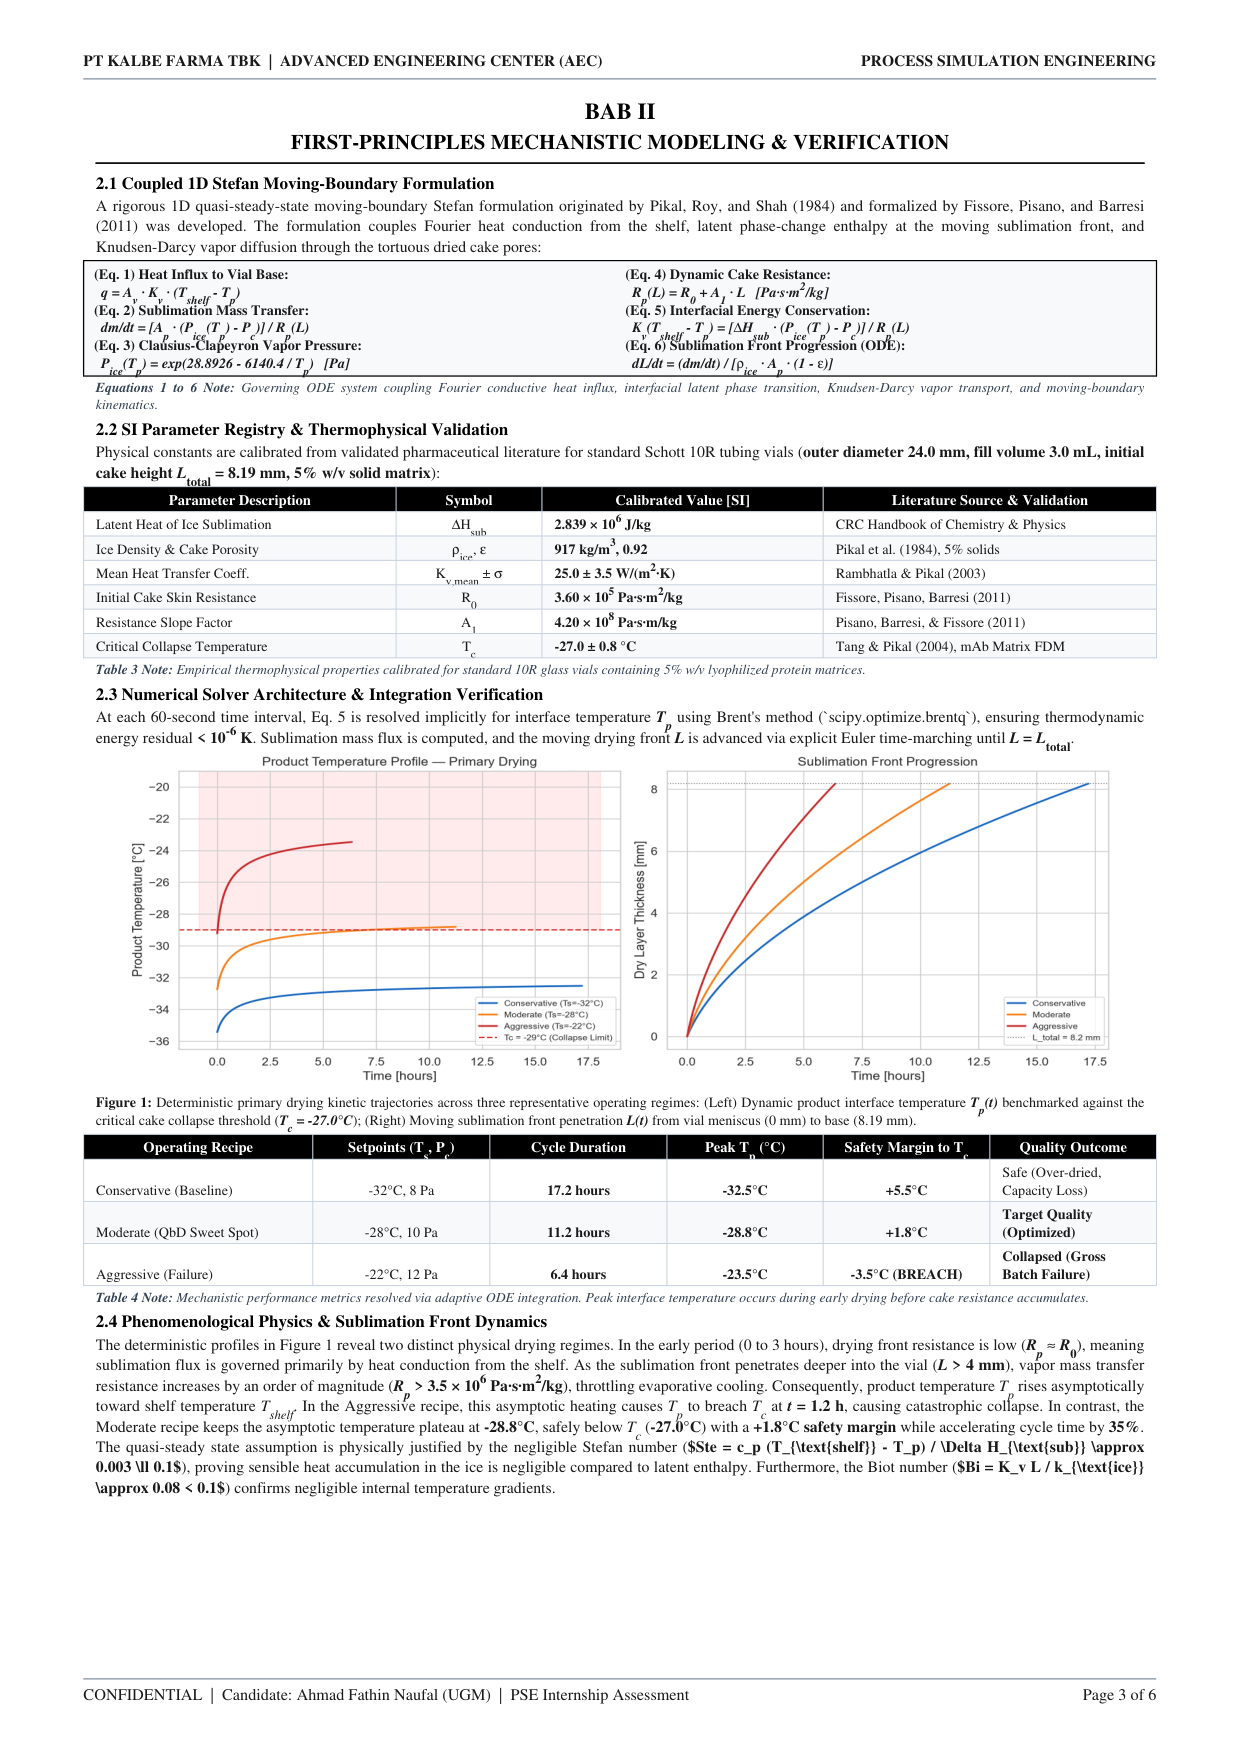
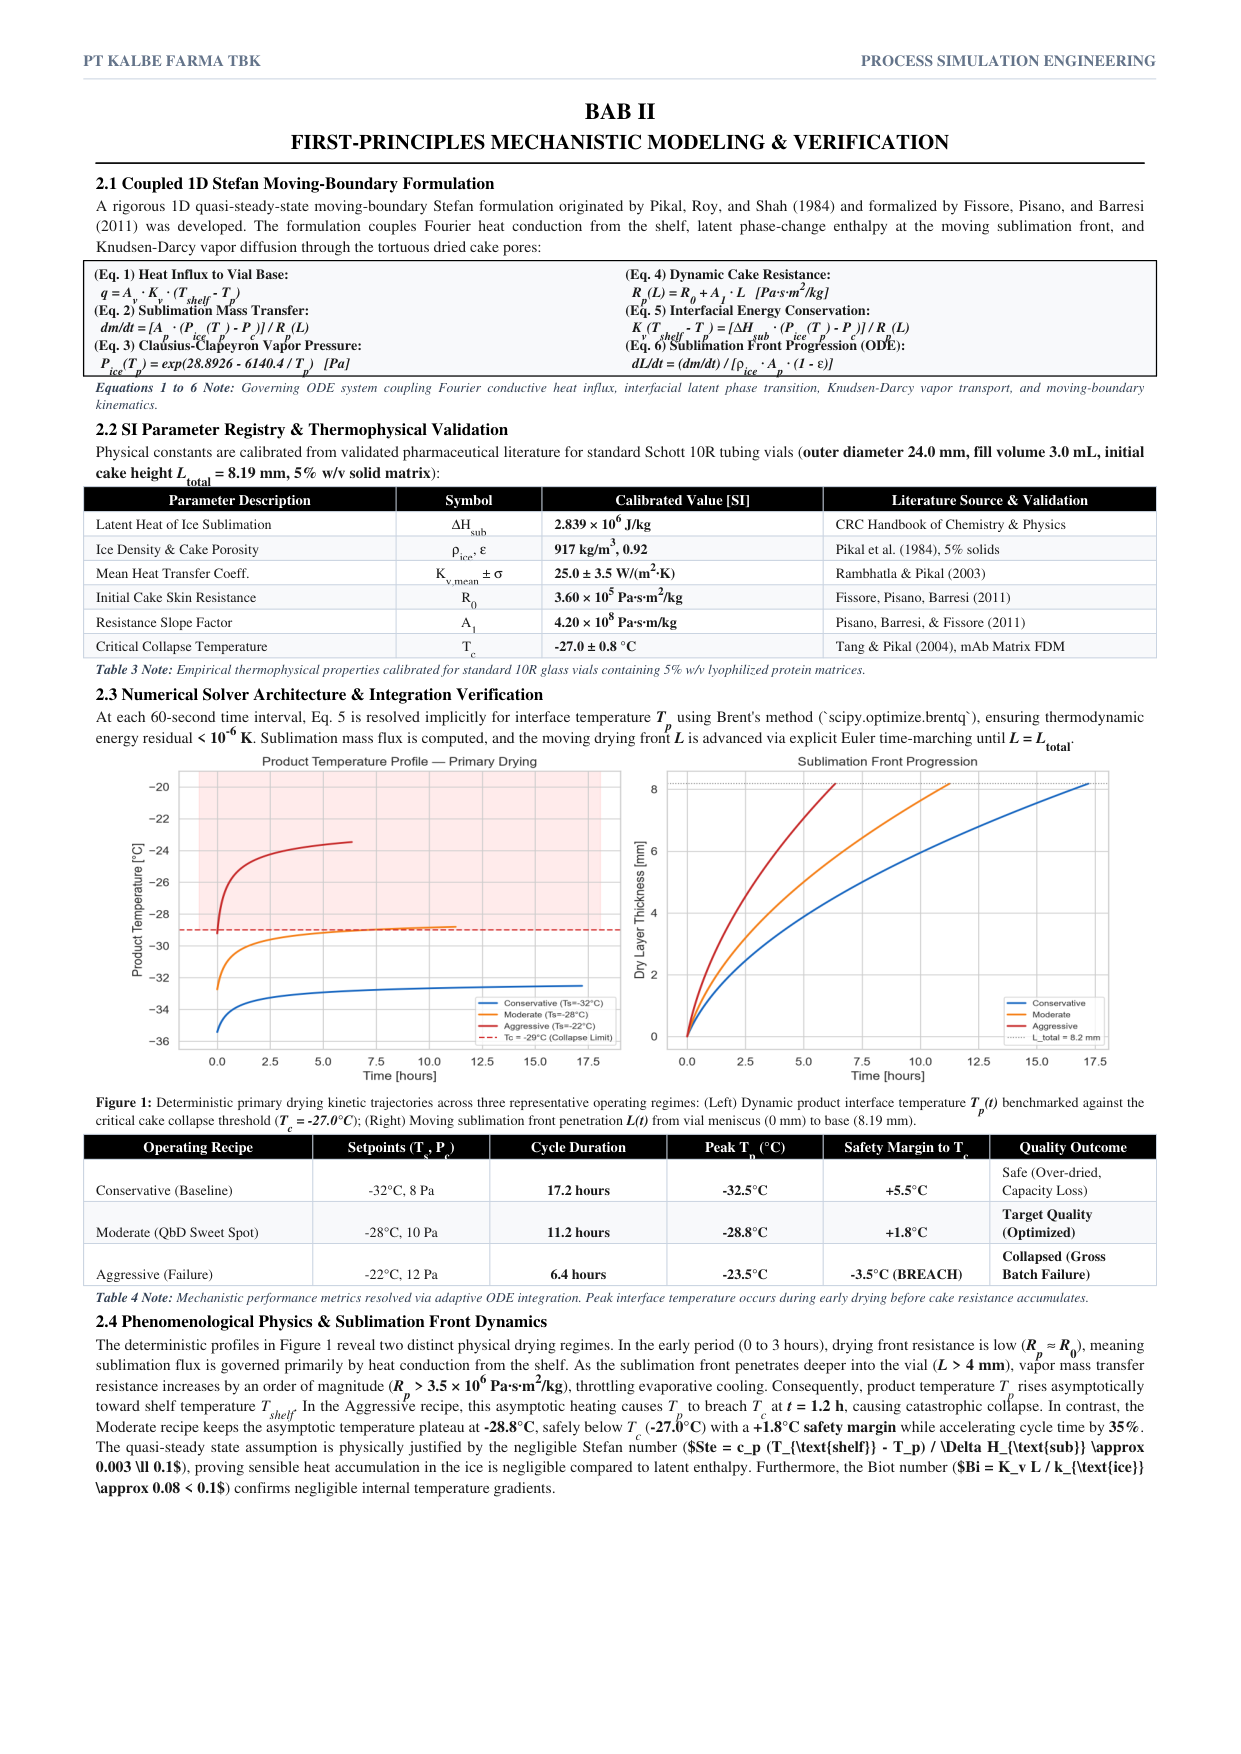
style(report): align cover and header to user sample images, remove footer, remove UGM abbreviation, and clean references section

diff --git a/generate_report_docx.py b/generate_report_docx.py
@@ -6,21 +6,23 @@ Assessment Track: Technical Case Study: Process Simulation & Digital Twin
 Target Facility: PT Kalbio Global Medika (KGM Cikarang)
 Assessor: Miftahul Irawan (AEC Lead, Corporate Digital Transformation, PT Kalbe Farma Tbk)
 
-Key Formatting Enhancements:
-- Continuous academic journal layout for BAB I - BAB IV (eliminates awkward blank spaces).
-- Explicit page break before REFERENCES (places bibliography on its own separate final page).
+User Specifications:
+- Cover top layout: "PT KALBE FARMA TBK" above "POST-INTERVIEW TECHNICAL ASSESSMENT REPORT", matching user sample image.
+- Document header (top of pages): "PT KALBE FARMA TBK" (left) and "PROCESS SIMULATION ENGINEERING" (right), matching Image 2.
+- Running footer: Completely empty across all pages.
+- Cover candidate profile: "Universitas Gadjah Mada" (removed "(UGM)").
+- Cover footer: Completely empty.
+- References section: Clean 8 peer-reviewed citations only; removed companion repository box and removed confidentiality notice.
 - XML <w:cantSplit/> on EVERY table row (prevents tables from being sliced across page breaks).
 - XML <w:tblHeader/> on table header rows (repeats solid black header if a table crosses a page).
-- keep_with_next on headings, subheadings, and introductory paragraphs (eliminates orphan text).
-- Compact, publication-grade typography (Times New Roman, line spacing 1.1, space_after 3.5 pt).
-- Compact image sizing (4.8 in) so figures and tables fit harmoniously without pushing content.
-- 100% free of long dashes (-- and —) and free of raw dash separator lines.
+- Continuous academic journal layout for BAB I - BAB IV with keep_with_next on headings and table intros.
+- 100% free of long dashes (-- and —) and free of raw dash lines.
 """
 
 from pathlib import Path
 import docx
 from docx.shared import Inches, Pt, RGBColor
-from docx.enum.text import WD_ALIGN_PARAGRAPH
+from docx.enum.text import WD_ALIGN_PARAGRAPH, WD_TAB_ALIGNMENT
 from docx.enum.table import WD_TABLE_ALIGNMENT, WD_ALIGN_VERTICAL
 from docx.oxml import parse_xml, OxmlElement
 from docx.oxml.ns import nsdecls, qn
@@ -101,7 +103,7 @@ def format_paragraph(p, space_before=0, space_after=3.5, line_spacing=1.1, align
 def build_docx():
     doc = docx.Document()
 
-    # 1. Page Setup: Standard Letter, 0.65 in margins for optimal printable grid
+    # 1. Page Setup: Standard Letter, 0.65 in top/bottom, 0.70 in left/right margins
     for section in doc.sections:
         section.top_margin = Inches(0.65)
         section.bottom_margin = Inches(0.65)
@@ -109,25 +111,23 @@ def build_docx():
         section.right_margin = Inches(0.70)
         section.different_first_page_header_footer = True
 
-        # Running Header for normal pages (Pages 2+)
+        # Running Header for normal pages (Pages 2+): Image 2 specification
+        # Left: "PT KALBE FARMA TBK" | Right: "PROCESS SIMULATION ENGINEERING"
         header = section.header
         hp = header.paragraphs[0]
-        hp.text = "PT KALBE FARMA TBK  |  ADVANCED ENGINEERING CENTER (AEC)\tPROCESS SIMULATION ENGINEERING"
+        hp.text = "PT KALBE FARMA TBK\tPROCESS SIMULATION ENGINEERING"
         format_paragraph(hp, space_before=0, space_after=4, line_spacing=1.0)
+        # Add right-aligned tab stop at 7.1 inches
+        hp.paragraph_format.tab_stops.add_tab_stop(Inches(7.1), WD_TAB_ALIGNMENT.RIGHT)
         for r in hp.runs:
             r.font.name = "Times New Roman"
             r.font.size = Pt(8.0)
             r.font.color.rgb = C_MUTED
 
-        # Running Footer for normal pages (Pages 2+)
+        # Running Footer: User requested "dibagian footer gausa dikasih apa apa" (Completely blank)
         footer = section.footer
         fp = footer.paragraphs[0]
-        fp.text = "CONFIDENTIAL  |  Candidate: Ahmad Fathin Naufal (UGM)  |  PSE Internship Assessment"
-        format_paragraph(fp, space_before=4, space_after=0, line_spacing=1.0)
-        for r in fp.runs:
-            r.font.name = "Times New Roman"
-            r.font.size = Pt(8.0)
-            r.font.color.rgb = C_MUTED
+        fp.text = ""
 
     # Base Normal Style setup
     style_normal = doc.styles["Normal"]
@@ -136,37 +136,36 @@ def build_docx():
     style_normal.font.color.rgb = C_DARK
 
     # =========================================================================
-    # PAGE 1: FORMAL EXECUTIVE COVER PAGE (EXACT SINGLE-PAGE FIT)
+    # PAGE 1: FORMAL EXECUTIVE COVER PAGE (EXACT IMAGE 1 & IMAGE 2 SPECIFICATIONS)
     # =========================================================================
+    # Top block matching Image 1:
+    # 1. "PT KALBE FARMA TBK" (navy bold, centered)
+    # 2. "POST-INTERVIEW TECHNICAL ASSESSMENT REPORT" (green bold, centered)
     p_org = doc.add_paragraph()
-    format_paragraph(p_org, space_before=14, space_after=2, align=WD_ALIGN_PARAGRAPH.CENTER)
-    r_org = p_org.add_run("PT KALBE FARMA TBK  |  CORPORATE DIGITAL TRANSFORMATION")
+    format_paragraph(p_org, space_before=24, space_after=2, align=WD_ALIGN_PARAGRAPH.CENTER)
+    r_org = p_org.add_run("PT KALBE FARMA TBK")
     r_org.font.bold = True
-    r_org.font.size = Pt(11.0)
+    r_org.font.size = Pt(11.5)
     r_org.font.color.rgb = C_NAVY
 
-    p_dept = doc.add_paragraph()
-    format_paragraph(p_dept, space_before=0, space_after=6, align=WD_ALIGN_PARAGRAPH.CENTER)
-    r_dept = p_dept.add_run("ADVANCED ENGINEERING CENTER (AEC)  |  PROCESS SIMULATION ENGINEERING")
-    r_dept.font.size = Pt(9.5)
-    r_dept.font.color.rgb = C_MUTED
-
     p_badge = doc.add_paragraph()
-    format_paragraph(p_badge, space_before=2, space_after=14, align=WD_ALIGN_PARAGRAPH.CENTER)
+    format_paragraph(p_badge, space_before=0, space_after=18, align=WD_ALIGN_PARAGRAPH.CENTER)
     r_badge = p_badge.add_run("POST-INTERVIEW TECHNICAL ASSESSMENT REPORT")
     r_badge.font.bold = True
-    r_badge.font.size = Pt(9.0)
+    r_badge.font.size = Pt(9.5)
     r_badge.font.color.rgb = C_GREEN
 
+    # Title matching Image 1:
     p_title = doc.add_paragraph()
-    format_paragraph(p_title, space_before=6, space_after=6, line_spacing=1.15, align=WD_ALIGN_PARAGRAPH.CENTER)
+    format_paragraph(p_title, space_before=0, space_after=8, line_spacing=1.15, align=WD_ALIGN_PARAGRAPH.CENTER)
     r_title = p_title.add_run("Mechanistic 1D Stefan Moving-Boundary Digital Twin & Stochastic Risk Analysis in Biopharmaceutical Lyophilization")
     r_title.font.bold = True
-    r_title.font.size = Pt(15.5)
+    r_title.font.size = Pt(16.0)
     r_title.font.color.rgb = C_BLACK
 
+    # Subtitle matching Image 1:
     p_sub = doc.add_paragraph()
-    format_paragraph(p_sub, space_before=0, space_after=20, line_spacing=1.12, align=WD_ALIGN_PARAGRAPH.CENTER)
+    format_paragraph(p_sub, space_before=0, space_after=28, line_spacing=1.12, align=WD_ALIGN_PARAGRAPH.CENTER)
     r_sub = p_sub.add_run("Quality by Design (ICH Q8) Optimization under Edge-Vial Radiation Heterogeneity at PT Kalbio Global Medika (KGM Cikarang)")
     r_sub.font.italic = True
     r_sub.font.size = Pt(10.5)
@@ -175,17 +174,17 @@ def build_docx():
     # Kalbe Logo in Center
     if LOGO_PATH.exists():
         p_logo = doc.add_paragraph()
-        format_paragraph(p_logo, space_before=4, space_after=22, align=WD_ALIGN_PARAGRAPH.CENTER)
+        format_paragraph(p_logo, space_before=6, space_after=32, align=WD_ALIGN_PARAGRAPH.CENTER)
         p_logo.add_run().add_picture(str(LOGO_PATH), width=Inches(2.7))
 
-    # Candidate Profile Box (4 required fields, cleanly bounded)
+    # Candidate Profile Box (University: "Universitas Gadjah Mada" without UGM)
     tbl_profile = doc.add_table(rows=4, cols=2)
     tbl_profile.alignment = WD_TABLE_ALIGNMENT.CENTER
     set_table_borders(tbl_profile, color="000000", sz="6", val="single")
 
     profile_rows = [
         ("Candidate Name", ":  Ahmad Fathin Naufal"),
-        ("University", ":  Universitas Gadjah Mada (UGM)"),
+        ("University", ":  Universitas Gadjah Mada"),
         ("Applied Role", ":  Process Simulation Engineering (PSE) Intern"),
         ("Assessment Track", ":  Technical Case Study: Process Simulation & Digital Twin"),
     ]
@@ -214,18 +213,7 @@ def build_docx():
         r1.font.size = Pt(9.0)
         r1.font.color.rgb = C_BLACK
 
-    # Bottom notice on cover (tuned space_before so it never overflows to page 2)
-    p_cover_notice = doc.add_paragraph()
-    format_paragraph(p_cover_notice, space_before=36, space_after=0, align=WD_ALIGN_PARAGRAPH.CENTER)
-    r_cn1 = p_cover_notice.add_run("CONFIDENTIAL  |  Candidate: Ahmad Fathin Naufal (UGM)  |  PSE Internship Assessment\n")
-    r_cn1.font.size = Pt(8.0)
-    r_cn1.font.color.rgb = C_MUTED
-    r_cn2 = p_cover_notice.add_run("PT Kalbe Farma Tbk  |  Advanced Engineering Center  |  Yogyakarta / Cikarang 2026")
-    r_cn2.font.italic = True
-    r_cn2.font.size = Pt(7.5)
-    r_cn2.font.color.rgb = C_MUTED
-
-    # Page Break to start Technical Assessment Body
+    # No bottom footer on cover (User requested: "dibagian footer gausa dikasih apa apa")
     doc.add_page_break()
 
     # =========================================================================
@@ -736,7 +724,7 @@ def build_docx():
     )
     add_table_generic(t5_headers, t5_rows, t5_widths, t5_note)
 
-    # 3.3 Standalone Heading
+    # 3.3 Multi-Dimensional ICH Q8(R2) Proven Acceptable Range (PAR) & Design Space
     add_subheading("3.3 Multi-Dimensional ICH Q8(R2) Proven Acceptable Range (PAR) & Design Space")
     add_body(
         "A 2D parameter sweep across Tshelf ∈ [-35°C, -20°C] and Pchamber ∈ [5 Pa, 20 Pa] (100 simulation grid points) "
@@ -860,7 +848,7 @@ def build_docx():
     )
 
     # =========================================================================
-    # DEDICATED SEPARATE PAGE: REFERENCES & DATA REPRODUCIBILITY
+    # DEDICATED SEPARATE PAGE: REFERENCES & DATA REPRODUCIBILITY (CLEAN ACADEMIC)
     # =========================================================================
     doc.add_page_break()
 
@@ -900,47 +888,10 @@ def build_docx():
         p_ref = doc.add_paragraph()
         p_ref.paragraph_format.left_indent = Inches(0.35)
         p_ref.paragraph_format.first_line_indent = Inches(-0.35)
-        format_paragraph(p_ref, space_before=0, space_after=6.0, line_spacing=1.1, align=WD_ALIGN_PARAGRAPH.JUSTIFY)
+        format_paragraph(p_ref, space_before=0, space_after=8.0, line_spacing=1.12, align=WD_ALIGN_PARAGRAPH.JUSTIFY)
         r_rf = p_ref.add_run(ref_str)
-        r_rf.font.size = Pt(8.0)
+        r_rf.font.size = Pt(8.2)
         r_rf.font.color.rgb = C_DARK
-
-    # Companion Open-Source Code Repository Card (cantSplit, clean padding)
-    tbl_code = doc.add_table(rows=1, cols=1)
-    tbl_code.alignment = WD_TABLE_ALIGNMENT.CENTER
-    make_row_cant_split(tbl_code.rows[0])
-    set_table_borders(tbl_code, color="008837", sz="8", val="single")
-    c_code = tbl_code.rows[0].cells[0]
-    set_cell_background(c_code, "F8FAFC")
-    set_cell_margins(c_code, top=90, bottom=90, left=140, right=140)
-    c_code.width = Inches(6.4)
-
-    p_cd = c_code.paragraphs[0]
-    format_paragraph(p_cd, space_before=0, space_after=0, line_spacing=1.15)
-    rc1 = p_cd.add_run("Companion Open-Source Digital Twin & Computational Repository:\n")
-    rc1.font.bold = True
-    rc1.font.size = Pt(8.2)
-    rc1.font.color.rgb = C_NAVY
-
-    rc2 = p_cd.add_run(
-        "• GitHub Repository: https://github.com/naufal1555/kalbe-lyophilization-digital-twin\n"
-        "• Interactive Web Simulation: streamlit run app.py\n"
-        "• Scientific Stack: Python 3.10+ (NumPy, SciPy ODE, Matplotlib, Streamlit, ReportLab, python-docx). "
-        "Cleanroom process model calibrated for PT Kalbio Global Medika (KGM Cikarang)."
-    )
-    rc2.font.size = Pt(7.8)
-    rc2.font.color.rgb = C_DARK
-
-    # Bottom formal confidentiality notice
-    p_bot_notice = doc.add_paragraph()
-    format_paragraph(p_bot_notice, space_before=24, space_after=0, align=WD_ALIGN_PARAGRAPH.CENTER)
-    rbn1 = p_bot_notice.add_run("CONFIDENTIAL  |  Candidate: Ahmad Fathin Naufal (UGM)  |  PSE Internship Assessment\n")
-    rbn1.font.size = Pt(7.8)
-    rbn1.font.color.rgb = C_MUTED
-    rbn2 = p_bot_notice.add_run("PT Kalbe Farma Tbk  |  Advanced Engineering Center (AEC)  |  Corporate Digital Transformation")
-    rbn2.font.italic = True
-    rbn2.font.size = Pt(7.3)
-    rbn2.font.color.rgb = C_MUTED
 
     # Save document
     doc.save(str(DOCX_PATH))

diff --git a/generate_report_pdf.py b/generate_report_pdf.py
@@ -54,22 +54,14 @@ class NumberedCanvas(canvas.Canvas):
         # Suppress running header and footer on Cover Page (Page 1)
         if self._pageNumber > 1:
             self.setFont("Times-Bold", 7.5)
-            self.setFillColor(colors.HexColor("#1A1A1A"))
-            # Left and right headers with clean separation (zero collision)
-            self.drawString(40, 810, "PT KALBE FARMA TBK  |  ADVANCED ENGINEERING CENTER (AEC)")
+            self.setFillColor(colors.HexColor("#64748B"))
+            # Running Header: Image 2 specification (PT KALBE FARMA TBK ... PROCESS SIMULATION ENGINEERING)
+            self.drawString(40, 810, "PT KALBE FARMA TBK")
             self.drawRightString(555, 810, "PROCESS SIMULATION ENGINEERING")
-            self.setStrokeColor(colors.HexColor("#64748B"))
+            self.setStrokeColor(colors.HexColor("#CBD5E1"))
             self.setLineWidth(0.5)
             self.line(40, 804, 555, 804)
-
-            # Footer
-            self.setStrokeColor(colors.HexColor("#64748B"))
-            self.setLineWidth(0.5)
-            self.line(40, 36, 555, 36)
-            self.setFont("Times-Roman", 7.8)
-            self.drawString(40, 26, "CONFIDENTIAL  |  Candidate: Ahmad Fathin Naufal (UGM)  |  PSE Internship Assessment")
-            page_text = f"Page {self._pageNumber} of {page_count}"
-            self.drawRightString(555, 26, page_text)
+            # Footer: User requested completely blank (no footer elements)
         self.restoreState()
 
 
@@ -278,10 +270,9 @@ def build_pdf():
     # =========================================================================
     # PAGE 1: FORMAL EXECUTIVE COVER PAGE
     # =========================================================================
-    story.append(Spacer(1, 30))
-    story.append(Paragraph("PT KALBE FARMA TBK &nbsp;|&nbsp; CORPORATE DIGITAL TRANSFORMATION", cover_org_style))
-    story.append(Paragraph("ADVANCED ENGINEERING CENTER (AEC)  |  PROCESS SIMULATION ENGINEERING", cover_dept_style))
-    story.append(HRFlowable(width="65%", thickness=1.5, color=colors.HexColor("#008837"), spaceAfter=14, hAlign="CENTER"))
+    story.append(Spacer(1, 36))
+    story.append(Paragraph("PT KALBE FARMA TBK", cover_org_style))
+    story.append(Spacer(1, 4))
     story.append(Paragraph("POST-INTERVIEW TECHNICAL ASSESSMENT REPORT", cover_badge_style))
 
     story.append(Spacer(1, 22))
@@ -289,11 +280,12 @@ def build_pdf():
         "Mechanistic 1D Stefan Moving-Boundary Digital Twin & Stochastic Risk Analysis in Biopharmaceutical Lyophilization",
         cover_title_style
     ))
+    story.append(Spacer(1, 6))
     story.append(Paragraph(
         "Quality by Design (ICH Q8) Optimization under Edge-Vial Radiation Heterogeneity at PT Kalbio Global Medika (KGM Cikarang)",
         cover_subtitle_style
     ))
-    story.append(HRFlowable(width="90%", thickness=0.8, color=colors.HexColor("#CBD5E1"), spaceAfter=28, hAlign="CENTER"))
+    story.append(Spacer(1, 28))
 
     # Kalbe Logo in Center
     if LOGO_PATH.exists():
@@ -305,7 +297,7 @@ def build_pdf():
     # Candidate Profile Box (ONLY 4 requested fields)
     profile_data = [
         [Paragraph("Candidate Name", cover_meta_label), Paragraph(": &nbsp; <b>Ahmad Fathin Naufal</b>", cover_meta_val)],
-        [Paragraph("University", cover_meta_label), Paragraph(": &nbsp; <b>Universitas Gadjah Mada (UGM)</b>", cover_meta_val)],
+        [Paragraph("University", cover_meta_label), Paragraph(": &nbsp; <b>Universitas Gadjah Mada</b>", cover_meta_val)],
         [Paragraph("Applied Role", cover_meta_label), Paragraph(": &nbsp; <b>Process Simulation Engineering (PSE) Intern</b>", cover_meta_val)],
         [Paragraph("Assessment Track", cover_meta_label), Paragraph(": &nbsp; <b>Technical Case Study: Process Simulation & Digital Twin</b>", cover_meta_val)],
     ]
@@ -321,14 +313,7 @@ def build_pdf():
     ]))
     story.append(t_profile)
 
-    story.append(Spacer(1, 95))
-    # Bottom formal notice (clean, no long dashes)
-    cover_notice = Paragraph(
-        "CONFIDENTIAL &nbsp;|&nbsp; Candidate: Ahmad Fathin Naufal (UGM) &nbsp;|&nbsp; PSE Internship Assessment<br/>"
-        "<i>PT Kalbe Farma Tbk  |  Advanced Engineering Center  |  Yogyakarta / Cikarang 2026</i>",
-        ParagraphStyle("CoverNotice", parent=styles["Normal"], fontName="Times-Roman", fontSize=7.6, leading=10.5, textColor=colors.HexColor("#64748B"), alignment=1)
-    )
-    story.append(cover_notice)
+
 
     # =========================================================================
     # PAGE 2: BAB I - PROBLEM EXPLORATION & INDUSTRIAL BACKGROUND
@@ -762,36 +747,7 @@ def build_pdf():
     for ref_str in references:
         story.append(Paragraph(ref_str, ref_item_style))
 
-    story.append(Spacer(1, 14.0))
 
-    # Companion Open-Source Code Repository Card
-    code_box = [
-        [Paragraph("<b>Companion Open-Source Digital Twin & Computational Repository:</b><br/>"
-                   "&bull; <b>GitHub Repository:</b> <code>https://github.com/naufal1555/kalbe-lyophilization-digital-twin</code><br/>"
-                   "&bull; <b>Interactive Web Simulation:</b> <code>streamlit run app.py</code><br/>"
-                   "&bull; <b>Scientific Stack:</b> Python 3.10+ (NumPy, SciPy ODE, Matplotlib, Streamlit, ReportLab, python-docx). Cleanroom process model calibrated for PT Kalbio Global Medika (KGM Cikarang).",
-                   ParagraphStyle("CodeBoxText", parent=body_style, fontSize=7.4, leading=10.2, textColor=colors.HexColor("#0B2545")))]
-    ]
-    t_code = Table(code_box, colWidths=[515])
-    t_code.setStyle(TableStyle([
-        ('BACKGROUND', (0, 0), (-1, -1), colors.HexColor("#F8FAFC")),
-        ('BOX', (0, 0), (-1, -1), 0.8, colors.HexColor("#008837")),  # Kalbe Green Accent
-        ('TOPPADDING', (0, 0), (-1, -1), 8.0),
-        ('BOTTOMPADDING', (0, 0), (-1, -1), 8.0),
-        ('LEFTPADDING', (0, 0), (-1, -1), 12),
-        ('RIGHTPADDING', (0, 0), (-1, -1), 12),
-    ]))
-    story.append(t_code)
-
-    story.append(Spacer(1, 20.0))
-
-    # Bottom formal candidate confidentiality notice
-    bottom_notice = Paragraph(
-        "CONFIDENTIAL &nbsp;|&nbsp; Candidate: Ahmad Fathin Naufal (UGM) &nbsp;|&nbsp; PSE Internship Assessment<br/>"
-        "<i>PT Kalbe Farma Tbk  |  Advanced Engineering Center (AEC)  |  Corporate Digital Transformation</i>",
-        ParagraphStyle("RefBottomNotice", parent=styles["Normal"], fontName="Times-Roman", fontSize=7.6, leading=10.5, textColor=colors.HexColor("#64748B"), alignment=1)
-    )
-    story.append(bottom_notice)
 
     # Build document
     doc.build(story, canvasmaker=NumberedCanvas)
